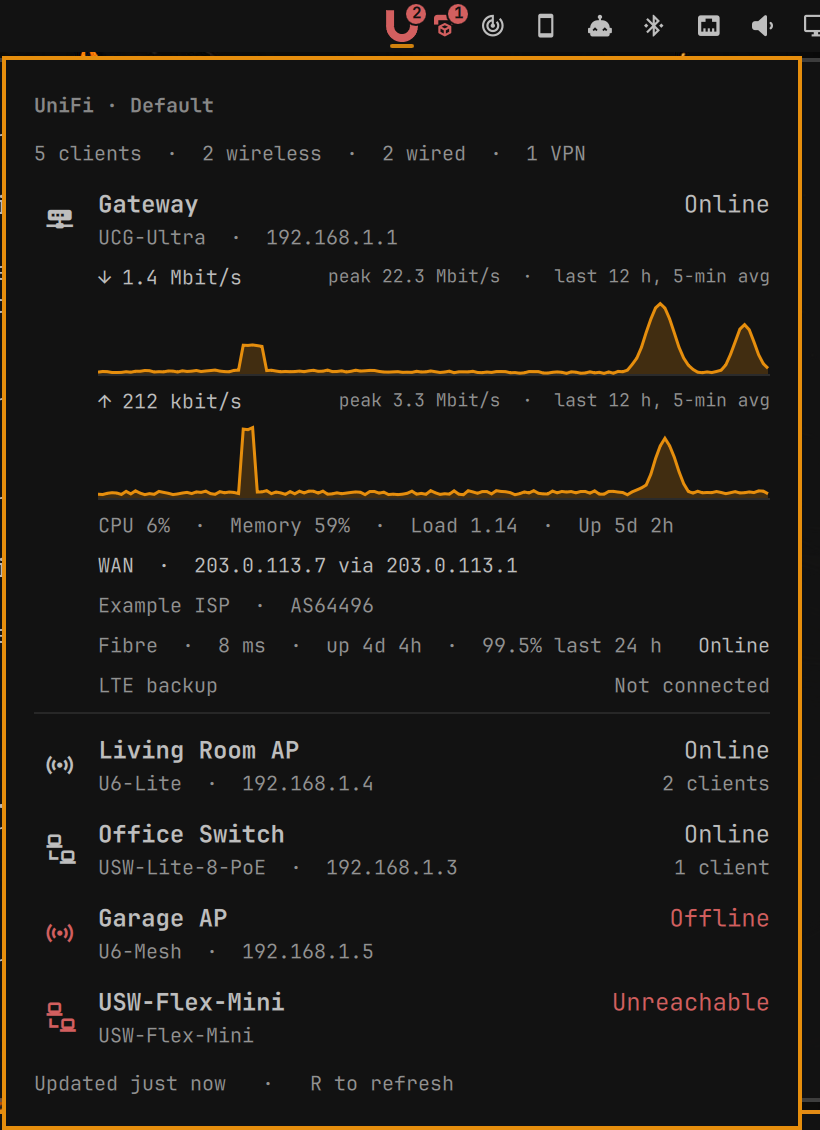
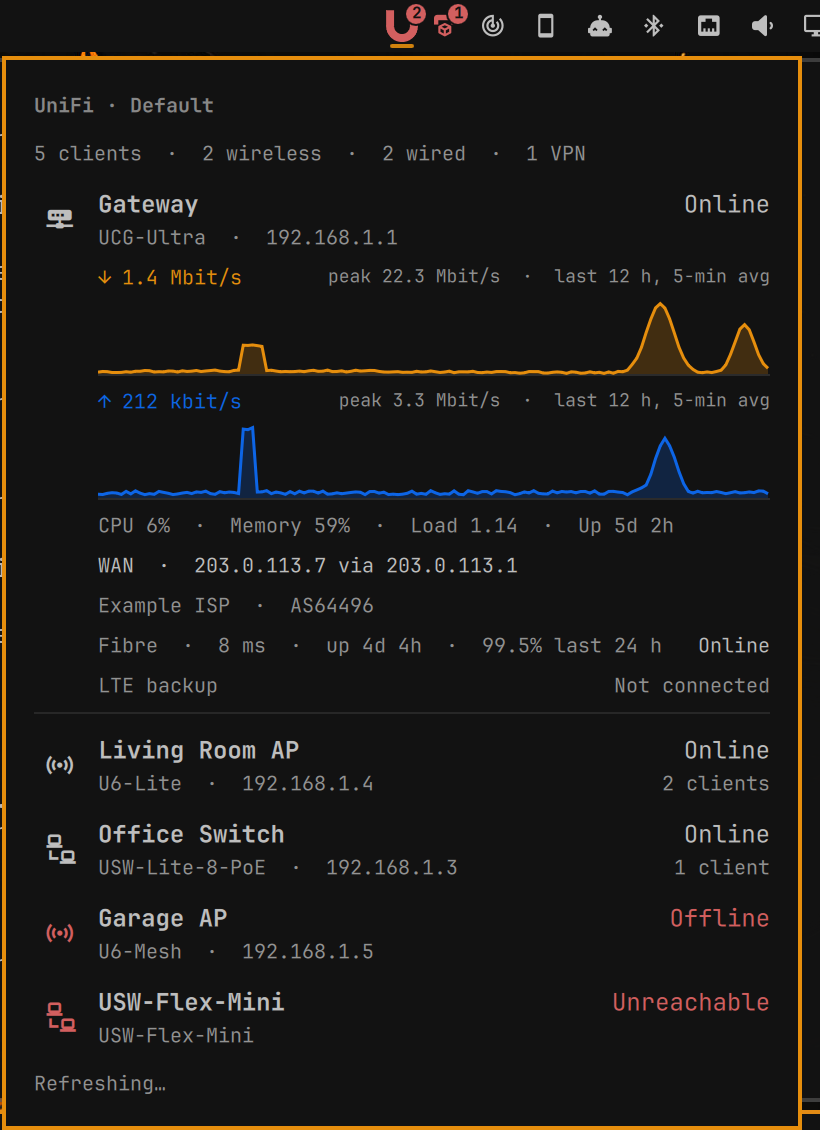
Colour download and upload differently
Download keeps the theme accent; upload takes its complementary hue, or the
urgent colour when the accent is grey and has no hue to rotate. The current
rate headers take the same tint, so each number is tied to its graph.

diff --git a/components/GatewayStats.qml b/components/GatewayStats.qml
@@ -58,6 +58,17 @@ Column {
     return Math.round(value) + "%"
   }
 
+  // Download keeps the accent; upload takes the accent's complementary hue so
+  // the two graphs are told apart at a glance in any theme. A theme whose
+  // accent is grey has no hue to rotate, so it falls back to the urgent
+  // colour — the only other guaranteed-distinct token.
+  readonly property color downColor: Color.accent
+  readonly property color upColor: {
+    var a = Color.accent
+    if (a.hslSaturation < 0.2) return Color.urgent
+    return Qt.hsla((a.hslHue + 0.5) % 1, a.hslSaturation, a.hslLightness, 1)
+  }
+
   readonly property string downGlyph: String.fromCodePoint(0xF0045)   // md-arrow_down
   readonly property string upGlyph: String.fromCodePoint(0xF005D)     // md-arrow_up
 
@@ -81,8 +92,8 @@ Column {
   // One graph per direction, each on its own scale: upload is usually a
   // fraction of download, and on a shared axis it flattened into the
   // baseline. Same shape for both, so the eye compares them by height only.
-  RateGraph { key: "rx"; glyph: stats.downGlyph; label: "Download" }
-  RateGraph { key: "tx"; glyph: stats.upGlyph; label: "Upload" }
+  RateGraph { key: "rx"; glyph: stats.downGlyph; label: "Download"; tint: stats.downColor }
+  RateGraph { key: "tx"; glyph: stats.upGlyph; label: "Upload"; tint: stats.upColor }
 
   component RateGraph: Column {
     id: rate
@@ -90,6 +101,7 @@ Column {
     required property string key
     required property string glyph
     required property string label
+    required property color tint
 
     width: parent.width
     spacing: Style.space(2)
@@ -104,7 +116,7 @@ Column {
       Text {
         id: nowText
         text: rate.glyph + " " + stats.formatRate(rate.current)
-        color: Color.popups.text
+        color: rate.tint
         font.family: Style.font.family
         font.pixelSize: Style.font.caption
       }
@@ -127,8 +139,8 @@ Column {
       width: parent.width
       height: Style.space(40)
 
-      readonly property color lineColor: Color.accent
-      readonly property color fillColor: Qt.rgba(Color.accent.r, Color.accent.g, Color.accent.b, 0.22)
+      readonly property color lineColor: rate.tint
+      readonly property color fillColor: Qt.rgba(rate.tint.r, rate.tint.g, rate.tint.b, 0.22)
       readonly property color axisColor: Qt.rgba(Color.popups.text.r, Color.popups.text.g, Color.popups.text.b, 0.15)
 
       onWidthChanged: requestPaint()
